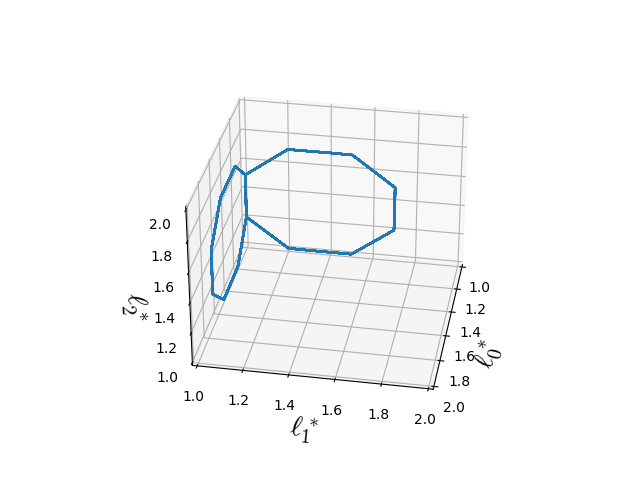
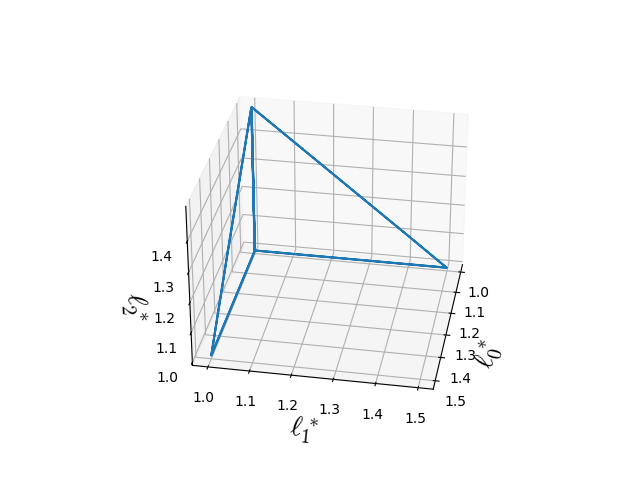
commit

diff --git a/sim/analysis/arm_length/arm_length_space_triangle.py b/sim/analysis/arm_length/arm_length_space_triangle.py
@@ -16,17 +16,17 @@ def main():
 
     # intervals = np.arange(0.1, 1.0, 0.2)
     # lengths = np.arange(1.1, 2.0, 0.2)
-    intervals = [0.9]
-    lengths = [1.9]
+    intervals = [0.5]
+    lengths = [1.7]
 
     for interval in tqdm(intervals):
         for length in tqdm(lengths, leave=False):
-            filename = f'../../result/radius0.1/without_energy/custom_gamma/' \
-                    f'type20_radius0.1_interval{interval:.1f}' \
-                    f'_maxlength{length:.1f}_withoutEnergy.csv'
-            # filename = f'../../result/' \
+            # filename = f'../../result/radius0.1/without_energy/custom_gamma/' \
             #         f'type20_radius0.1_interval{interval:.1f}' \
-            #         f'_maxlength{length:.1f}_withEnergy.csv'
+            #         f'_maxlength{length:.1f}_withoutEnergy.csv'
+            filename = f'../../result/' \
+                    f'type20_radius0.1_interval{interval:.1f}' \
+                    f'_maxlength{length:.1f}_withEnergy.csv'
 
             df = pd.read_csv(filename)
             fig = plt.figure()
